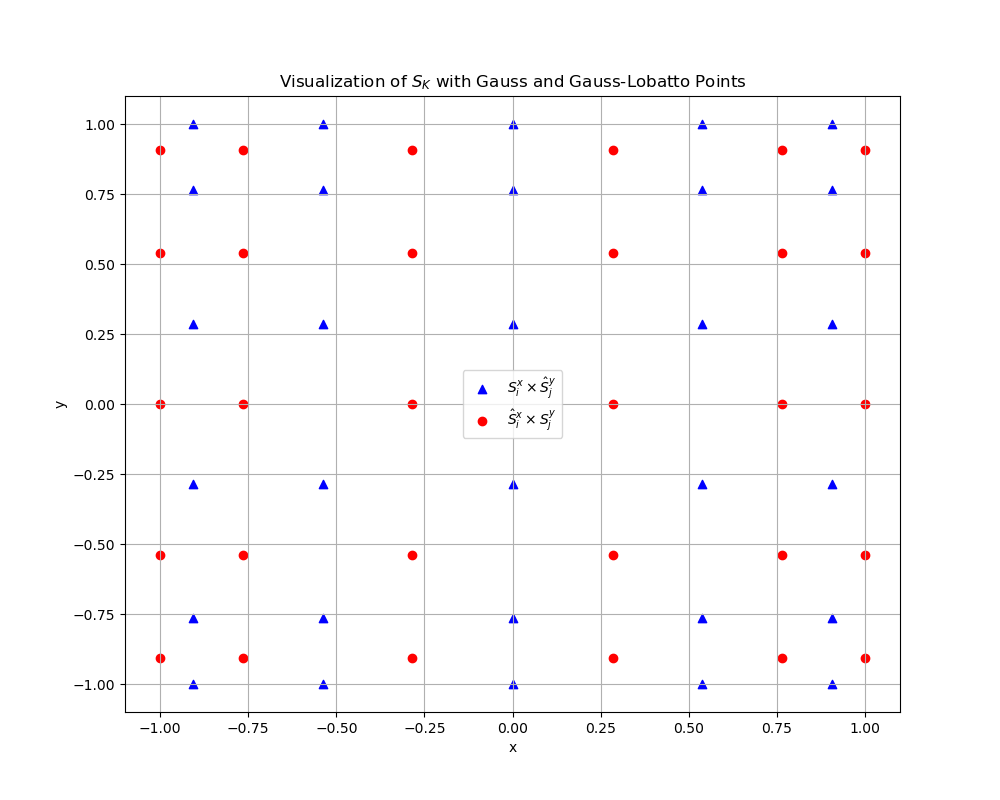
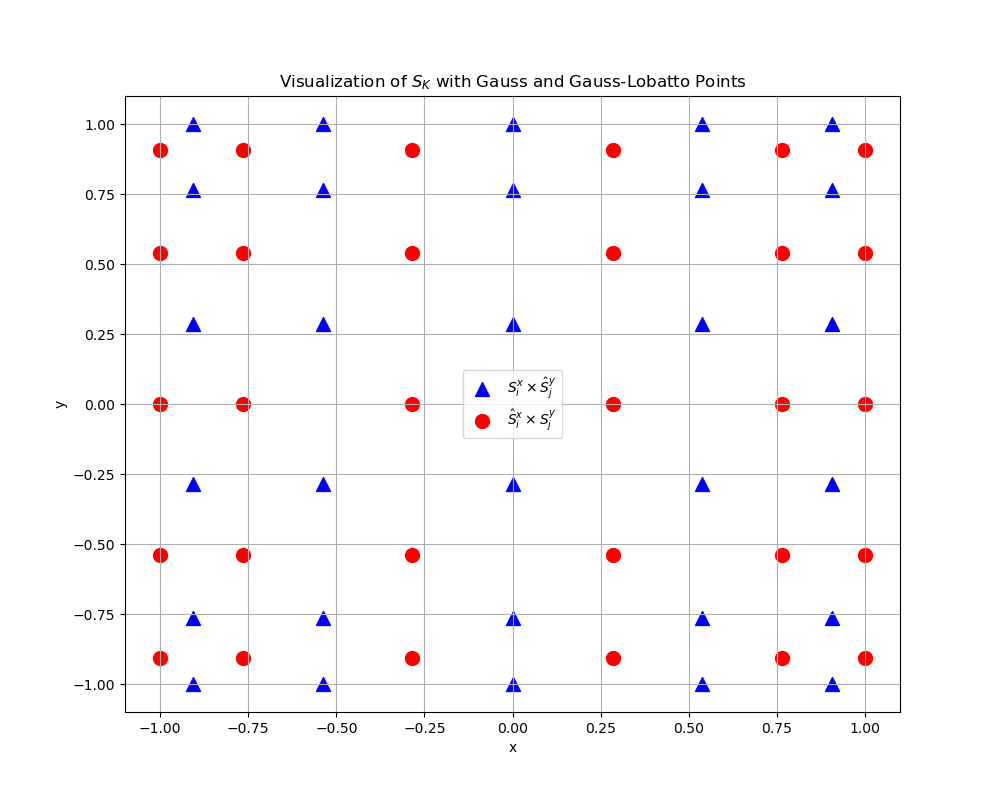
modified a fig

diff --git a/gauss_gausslobatto.py b/gauss_gausslobatto.py
@@ -38,8 +38,8 @@ def visualize_S_K():
 
     plt.figure(figsize=(10, 8))
     
-    plt.scatter(S1_x, S1_y, color='blue', marker='^', label='$S_i^x \\times \\hat{S}_j^y$')
-    plt.scatter(S2_x, S2_y, color='red', marker='o', label='$\\hat{S}_i^x \\times S_j^y$')
+    plt.scatter(S1_x, S1_y, color='blue', marker='^', s=100,label='$S_i^x \\times \\hat{S}_j^y$')
+    plt.scatter(S2_x, S2_y, color='red', marker='o', s=100, label='$\\hat{S}_i^x \\times S_j^y$')
 
     plt.xlabel('x')
     plt.ylabel('y')
